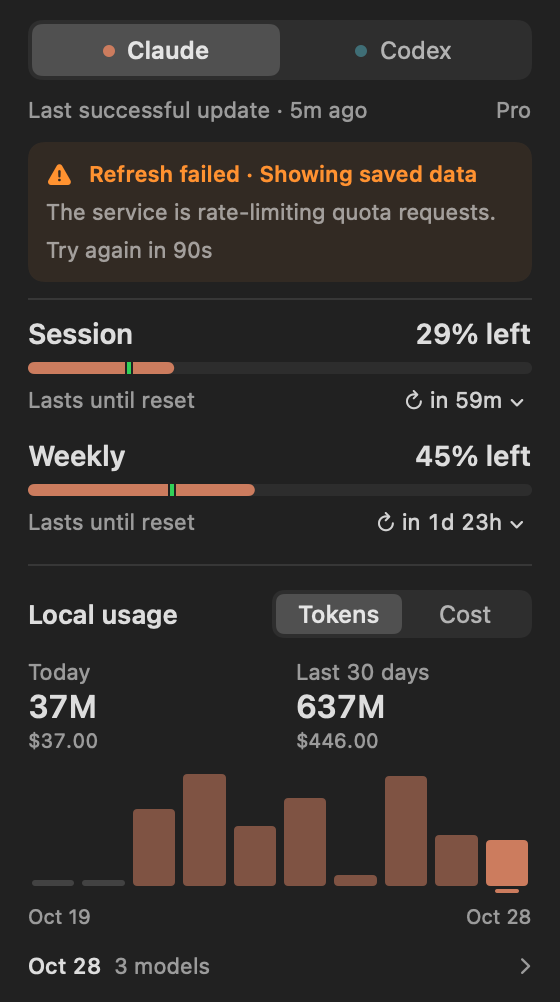
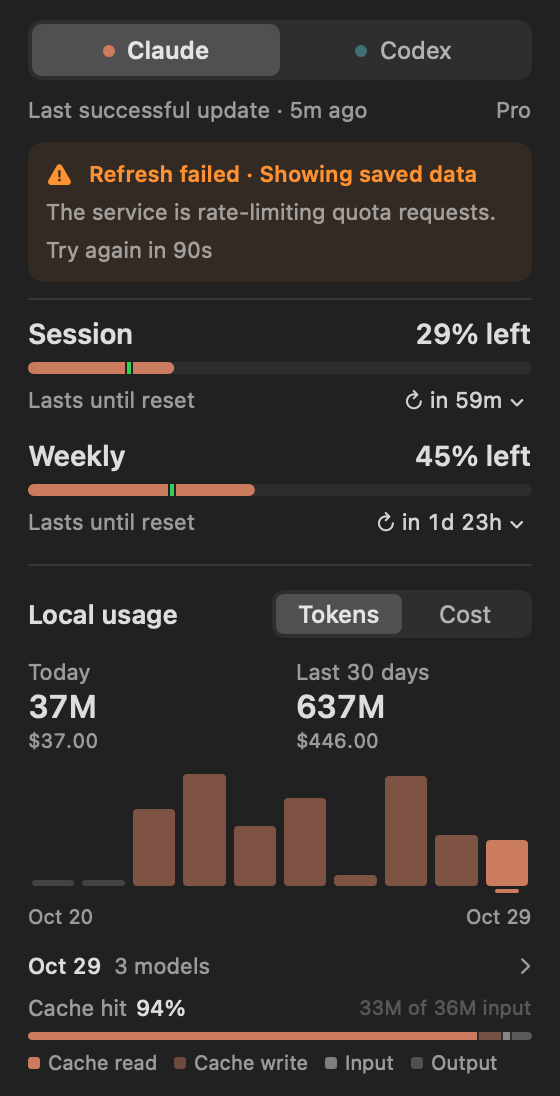
feat(cost): show cache hit rate for the selected day (#30)
## Summary

```diff
 <CostSectionView>
   <dayDetail>
     <dayToggleLabel>
+    <cacheMix>
+      Cache hit rate
+      token composition bar
+      cache read / write / input / output legend
     <model breakdown>
```

- Adds `TokenTotals.cacheHitRate`, computed as `cacheRead / (input +
cacheWrite + cacheRead)`. Output is excluded.
- Shows the selected day's cache hit rate and token composition under
the day row, with stable height on empty days.
- Updates the sample card data, README copy, and rendered screenshots.

## Evidence

- **Before:** the Local usage card showed day totals and models but no
prompt-cache visibility.
**After:** the selected day shows its cache hit rate and cache read,
cache write, input, and output composition.
- `make test`: `1143 checks passed`.

![Cache hit rate in light
mode](https://raw.githubusercontent.com/softmaxe/quota-bar/c21a55d098e55577cee4ae32be5fdfa78e8090bd/docs/images/interactions/main-light.png)

![Cache hit rate in dark
mode](https://raw.githubusercontent.com/softmaxe/quota-bar/c21a55d098e55577cee4ae32be5fdfa78e8090bd/docs/images/interactions/main-dark.png)

## Merge Danger

**Door:** two-way

**Blast Radius:** local usage card

This changes presentation and a derived metric only; it does not migrate
stored usage or alter recorded token counts.

diff --git a/Sources/QuotaBarApp/CostSectionView.swift b/Sources/QuotaBarApp/CostSectionView.swift
@@ -433,6 +433,9 @@ struct CostSectionView: View {
                 self.dayToggleLabel(models: ranked.count, showsChevron: false)
             }
 
+            self.cacheMix
+                .padding(.top, 6)
+
             VStack(alignment: .leading, spacing: 0) {
                 if self.isBreakdownExpanded {
                     // The height cuts open; the rows rise into place together, like every other
@@ -490,6 +493,85 @@ struct CostSectionView: View {
         .lineLimit(1)
         .frame(height: 16)
         .frame(maxWidth: .infinity, alignment: .leading)
+    }
+
+    /// The shown day's cache hit rate over a bar of how its tokens split between cache reads,
+    /// cache writes, fresh input, and output. It keeps its height on a day with no usage, so the
+    /// card does not jump as the pointer crosses the chart.
+    private var cacheMix: some View {
+        let day = self.shownDay
+        let tokens = self.isUnobserved(day.dayKey) ? TokenTotals() : day.tokens
+        let accent = Theme.accent(for: self.snapshot.provider)
+        let parts: [(label: String, count: Int, color: Color)] = [
+            ("Cache read", tokens.cacheRead, accent),
+            ("Cache write", tokens.cacheWrite, accent.opacity(0.45)),
+            ("Input", tokens.input, Color.primary.opacity(0.5)),
+            ("Output", tokens.output, Color.primary.opacity(0.25)),
+        ]
+        let inputTokens = tokens.input + tokens.cacheWrite + tokens.cacheRead
+        let rate = tokens.cacheHitRate.map(Self.hitRateLabel) ?? "—"
+        return VStack(alignment: .leading, spacing: 5) {
+            HStack(spacing: 4) {
+                Text("Cache hit").foregroundStyle(.secondary)
+                Text(rate).fontWeight(.medium)
+                Spacer(minLength: 4)
+                if inputTokens > 0 {
+                    Text("\(Formatters.tokens(tokens.cacheRead)) of \(Formatters.tokens(inputTokens)) input")
+                        .font(.system(size: 10))
+                        .foregroundStyle(.tertiary)
+                }
+            }
+            .font(.system(size: 11))
+            .monospacedDigit()
+            .lineLimit(1)
+
+            GeometryReader { geometry in
+                let shown = parts.filter { $0.count > 0 }
+                let gaps = CGFloat(max(0, shown.count - 1))
+                let width = max(0, geometry.size.width - gaps)
+                HStack(spacing: 1) {
+                    ForEach(shown, id: \.label) { part in
+                        Rectangle()
+                            .fill(part.color)
+                            .frame(width: max(2, width * CGFloat(part.count) / CGFloat(tokens.total)))
+                    }
+                }
+                .frame(width: geometry.size.width, alignment: .leading)
+                .background(Theme.progressTrack)
+                .clipShape(Capsule())
+                .animation(CostChartHoverMotion.selection, value: day.dayKey)
+            }
+            .frame(height: 4)
+
+            HStack(spacing: 8) {
+                ForEach(parts, id: \.label) { part in
+                    HStack(spacing: 4) {
+                        RoundedRectangle(cornerRadius: 1.5)
+                            .fill(part.color)
+                            .frame(width: 6, height: 6)
+                        Text(part.label)
+                    }
+                }
+            }
+            .font(.system(size: 10))
+            .foregroundStyle(.secondary)
+            .lineLimit(1)
+        }
+        .help(parts.map { "\($0.label) \(Formatters.tokens($0.count))" }.joined(separator: " · "))
+        .accessibilityElement(children: .ignore)
+        .accessibilityLabel("Cache hit rate")
+        .accessibilityValue(
+            ([rate] + parts.map { "\($0.label) \($0.count) tokens" }).joined(separator: ", ")
+        )
+    }
+
+    /// Whole percents, but never a round 100% while some input missed the cache, or 0% while
+    /// some of it hit.
+    private static func hitRateLabel(_ rate: Double) -> String {
+        let percent = Int((rate * 100).rounded())
+        if percent == 100, rate < 1 { return "99%" }
+        if percent == 0, rate > 0 { return "<1%" }
+        return "\(percent)%"
     }
 
     /// The tool's mark and the model's name over a bar of its share of the day, in the chosen unit.

diff --git a/Sources/QuotaBarApp/CardDump.swift b/Sources/QuotaBarApp/CardDump.swift
@@ -185,7 +185,7 @@ enum CardDump {
             dayKey: last.dayKey,
             byModel: Dictionary(uniqueKeysWithValues: zip(models, shares).map { entry, share in
                 (ModelUsageKey(source: entry.0, model: entry.1), ModelDayUsage(
-                    tokens: TokenTotals(input: Int(total * share * 1_000_000)),
+                    tokens: Self.mixedTokens(Int(total * share * 1_000_000), cacheHitRate: 0.95 - share / 2),
                     costUSD: total * share
                 ))
             }),
@@ -202,6 +202,21 @@ enum CardDump {
             topModel: sample.topModel,
             hasUnpricedTokens: sample.hasUnpricedTokens,
             scannedAt: sample.scannedAt
+        )
+    }
+
+    /// Splits a model's tokens the way an agent session does: most input comes back from the
+    /// cache, and the rest is cache writes, fresh input, and output.
+    private static func mixedTokens(_ total: Int, cacheHitRate: Double) -> TokenTotals {
+        let output = total / 25
+        let input = total - output
+        let cacheRead = Int(Double(input) * cacheHitRate)
+        let cacheWrite = (input - cacheRead) * 3 / 4
+        return TokenTotals(
+            input: input - cacheRead - cacheWrite,
+            output: output,
+            cacheWrite: cacheWrite,
+            cacheRead: cacheRead
         )
     }
 
@@ -245,6 +260,7 @@ enum CardDump {
         let mix: [(CostUsageSource, String, Double)] = provider == .codex
             ? [(.codex, top, 0.72), (.openCode, "gpt-5.6-terra", 0.2), (.piAgent, "gpt-5.6-luna", 0.08)]
             : [(.claude, top, 0.8), (.claude, "claude-sonnet-5", 0.15), (.claude, "claude-haiku-4-5", 0.05)]
+        let hitRates = [0.91, 0.88, 0.93, 0.9, 0.84, 0.92, 0.95, 0.94]
         let calendar = Calendar.current
         let today = calendar.startOfDay(for: Date())
         let days = values.enumerated().map { index, value in
@@ -253,7 +269,10 @@ enum CardDump {
                 dayKey: DayKey.make(from: date),
                 byModel: Dictionary(uniqueKeysWithValues: mix.map { source, model, share in
                     (ModelUsageKey(source: source, model: model), ModelDayUsage(
-                        tokens: TokenTotals(input: Int(value * share * 1_000_000)),
+                        tokens: Self.mixedTokens(
+                            Int(value * share * 1_000_000),
+                            cacheHitRate: hitRates[index % hitRates.count]
+                        ),
                         costUSD: value * share
                     ))
                 }),

diff --git a/Sources/QuotaBarTests/CostTests.swift b/Sources/QuotaBarTests/CostTests.swift
@@ -8,6 +8,7 @@ enum CostTests {
     static func run() async {
         Self.iso8601Parsing()
         Self.modelBreakdownRanking()
+        Self.cacheHitRate()
         Self.logFileScanning()
         do {
             try await CostSchemaUpgradeTests.run()
@@ -187,6 +188,24 @@ enum CostTests {
         for raw in fallbackSamples {
             Harness.expectEqual(ISO8601.parse(raw), reference(raw), "ISO8601 fallback parity for \(raw)")
         }
+    }
+
+    private static func cacheHitRate() {
+        Harness.expectEqual(
+            TokenTotals(input: 10, output: 500, cacheWrite: 30, cacheRead: 160).cacheHitRate,
+            0.8,
+            "cache hit rate counts reads against all input and leaves output out"
+        )
+        Harness.expectEqual(
+            TokenTotals(output: 500).cacheHitRate,
+            nil,
+            "a day with output alone has no cache hit rate"
+        )
+        Harness.expectEqual(
+            TokenTotals(input: 40, cacheWrite: 60).cacheHitRate,
+            0,
+            "input that never reads the cache has a zero hit rate"
+        )
     }
 
     private static func modelBreakdownRanking() {

diff --git a/Sources/QuotaBarCore/Cost/CostModels.swift b/Sources/QuotaBarCore/Cost/CostModels.swift
@@ -30,6 +30,14 @@ public struct TokenTotals: Sendable, Equatable {
     /// `cacheWrite1h` is a subset of `cacheWrite`, so counting it here would double it.
     public var total: Int { self.input + self.output + self.cacheWrite + self.cacheRead }
 
+    /// The share of input the prompt cache served: cache reads over fresh input, cache writes,
+    /// and cache reads together. Output never comes from the cache, so it stays out. Nil when
+    /// there is no input to measure.
+    public var cacheHitRate: Double? {
+        let input = self.input + self.cacheWrite + self.cacheRead
+        return input > 0 ? Double(self.cacheRead) / Double(input) : nil
+    }
+
     public static func + (lhs: Self, rhs: Self) -> Self {
         Self(
             input: lhs.input + rhs.input,

diff --git a/README.md b/README.md
@@ -156,7 +156,7 @@ QuotaBar counts tokens in local session logs and estimates what that usage would
 
 Choose **Tokens** or **Cost** above the chart. The chart shows the last 10 calendar days; the summary shows the selected day and the last 30 days, each with its value in the other unit underneath.
 
-Hover to preview a day, click to pin it, or use the Left and Right Arrow keys when a date is focused. The summary's first figure follows the selection and reads **Today** until another day is chosen. Click the row under the chart to list that day's models and keep the date fixed. Each model shows the mark of the tool that used it, a bolt for Fast usage, and a bar of its share of the day in the chosen unit. Click the pinned day again, or reopen the card, to resume hover previews. Switching units keeps the selected date.
+Hover to preview a day, click to pin it, or use the Left and Right Arrow keys when a date is focused. The summary's first figure follows the selection and reads **Today** until another day is chosen. Under that row, **Cache hit** gives the share of the day's input served from the prompt cache, over a bar of its cache reads, cache writes, fresh input, and output. Click the row under the chart to list that day's models and keep the date fixed. Each model shows the mark of the tool that used it, a bolt for Fast usage, and a bar of its share of the day in the chosen unit. Click the pinned day again, or reopen the card, to resume hover previews. Switching units keeps the selected date.
 
 The chart distinguishes zero usage from missing data:
 

diff --git a/README.zh-CN.md b/README.zh-CN.md
@@ -156,7 +156,7 @@ QuotaBar 统计本地会话日志中的 token，估算这些用量按 API 费率
 
 在图表上方选择 **Tokens** 或 **Cost**。图表显示最近 10 个日历日，摘要显示所选日期和最近 30 天的总计，下方小字是另一种单位的数值。
 
-悬停可预览某天，点击可固定日期，日期获得焦点后也可用左右方向键切换。摘要的第一个数值跟随所选日期，未选其他日期时显示 **Today**。点击图表下方那一行可展开当天的模型明细，并固定日期。每个模型前显示所用工具的图标，Fast 用量带闪电标记，下方的条表示它在当天所选单位中的占比。再次点击已固定的日期或重新打开卡片，可恢复悬停预览；切换单位会保留选中日期。
+悬停可预览某天，点击可固定日期，日期获得焦点后也可用左右方向键切换。摘要的第一个数值跟随所选日期，未选其他日期时显示 **Today**。那一行下方的 **Cache hit** 显示当天输入中由提示缓存提供的比例，下面的条把当天 tokens 分为缓存读取、缓存写入、新输入和输出。点击图表下方那一行可展开当天的模型明细，并固定日期。每个模型前显示所用工具的图标，Fast 用量带闪电标记，下方的条表示它在当天所选单位中的占比。再次点击已固定的日期或重新打开卡片，可恢复悬停预览；切换单位会保留选中日期。
 
 图表区分零用量和缺失数据：
 
